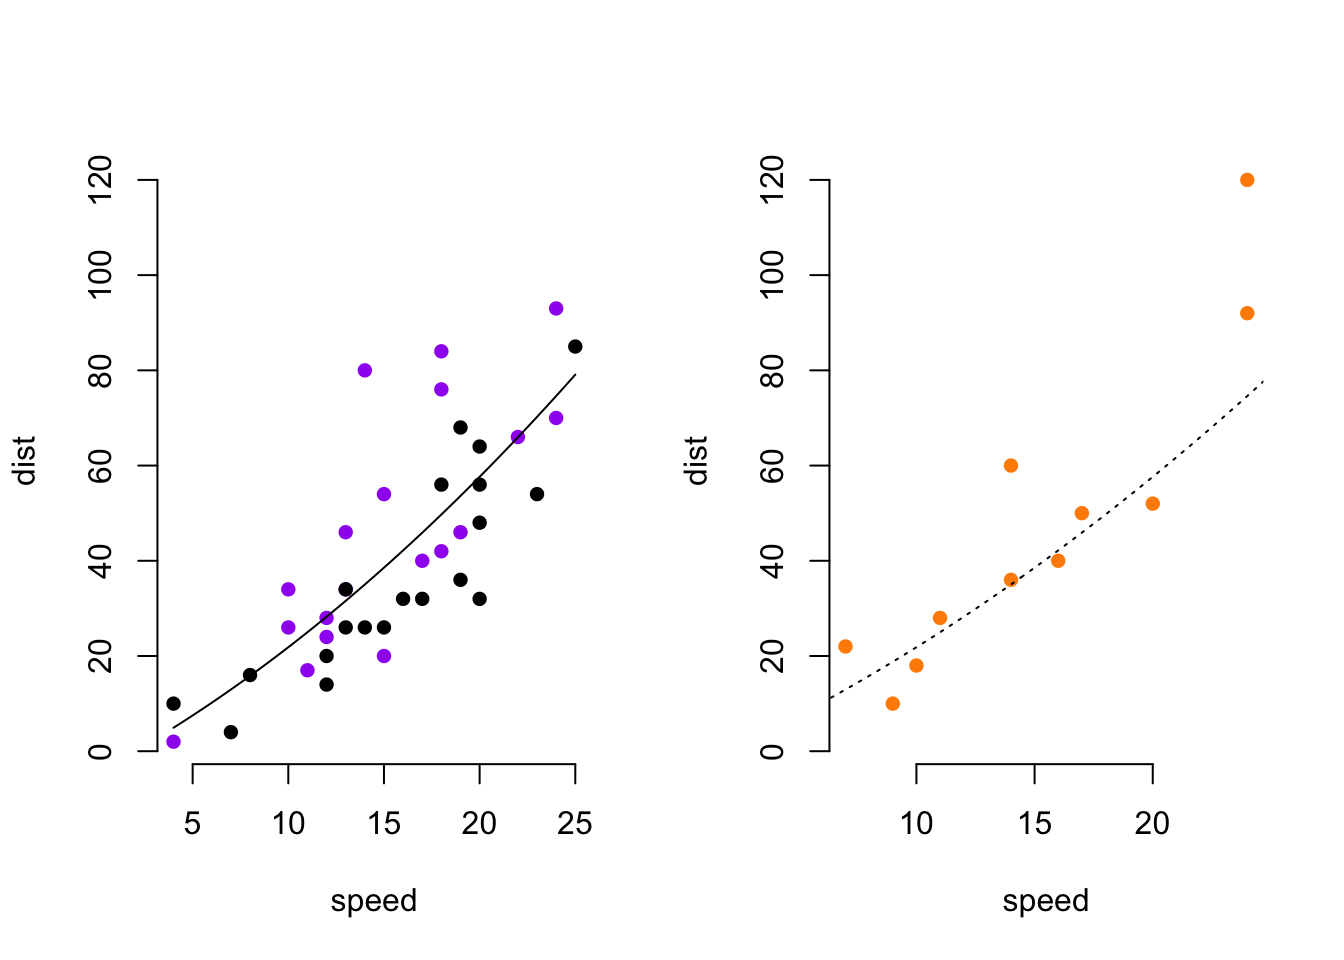
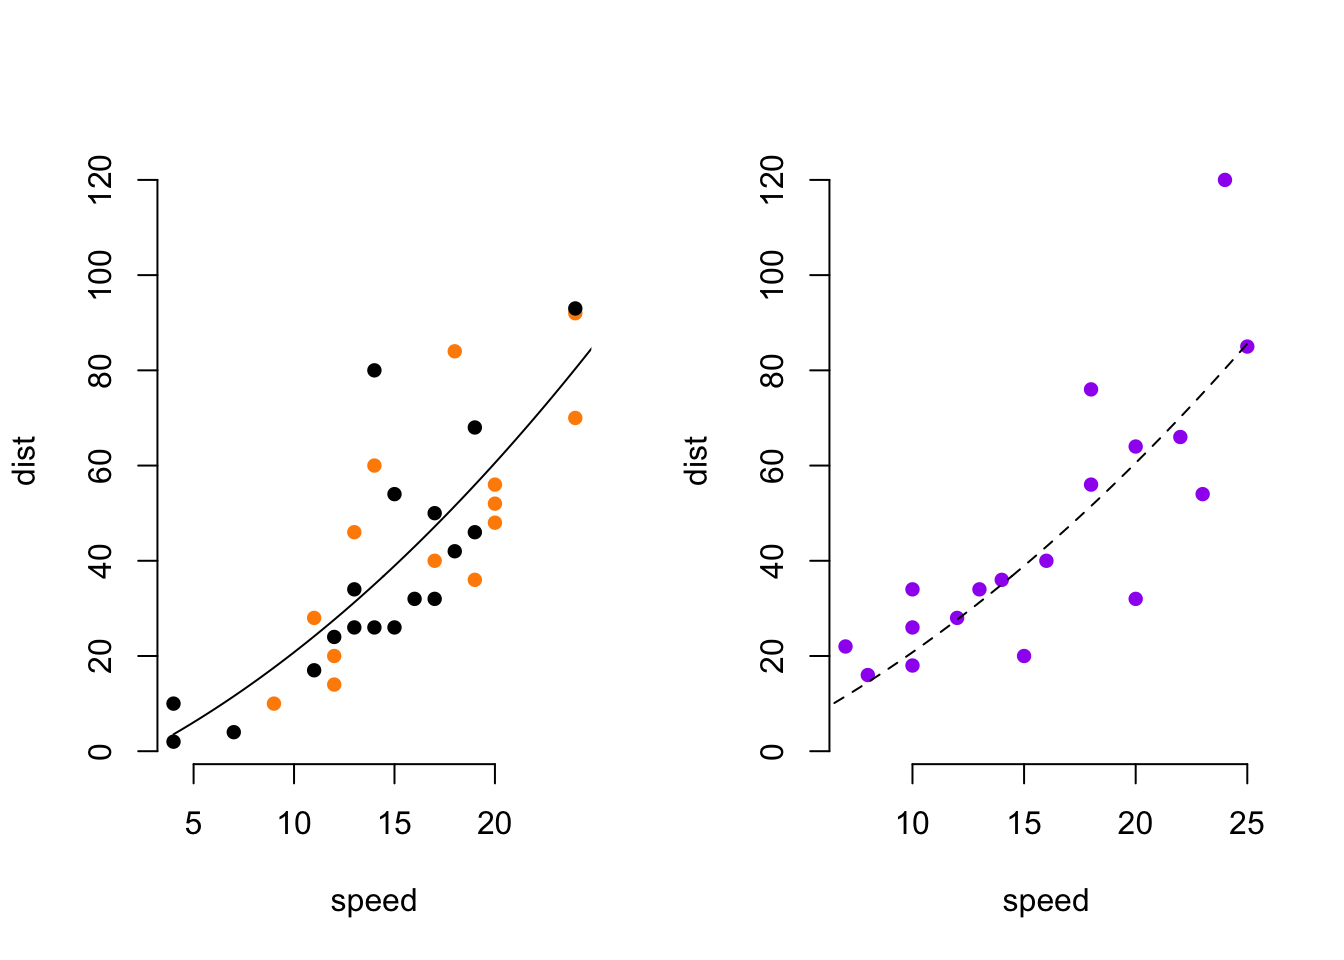
reorganized CV example

diff --git a/docs/data-splitting-systems.html b/docs/data-splitting-systems.html
@@ -212,11 +212,13 @@ code span.wa { color: #60a0b0; font-weight: bold; font-style: italic; } /* Warni
 </div>
 <div id="cross-validation" class="section level2" number="3.2">
 <h2><span class="header-section-number">3.2</span> Cross-validation</h2>
-<p>Cross validation is a kind of repeated training/validation split, which is iterated until all of the data has been used for testing. Each training/validation split may be random or may take data that are grouped according to some meaningful value (often that means resolving one year’s data at a time as validation data).</p>
+<p>Cross validation is a kind of repeated training/validation split, which is iterated until all of the data has been used for testing. Each training/validation split may be random or may take data that are grouped according to some meaningful value. For instance, time-series data may be best analyzed by holding out contiguous blocks of observations.</p>
+<p>Here, I’ll demonstrate doing thre-fold cross-validation on the car stopping distance data. I’ll split the data into three folds and use those divisions to estimate three models. Each model uses two folds as training data and one as validation data.</p>
 <p><img src="03_data-splitting-systems_files/figure-html/three-fold-cv-1.png" width="672" /><img src="03_data-splitting-systems_files/figure-html/three-fold-cv-2.png" width="672" /><img src="03_data-splitting-systems_files/figure-html/three-fold-cv-3.png" width="672" /><img src="03_data-splitting-systems_files/figure-html/three-fold-cv-4.png" width="672" /></p>
+<p>Some things to note are that the estimated line of best fits are different for each iteration of the CV, and that the predictions (in the right hand panels) are generally less accurate than the fitted values (in the left hand panels).</p>
 <div id="combining-the-two" class="section level3" number="3.2.1">
 <h3><span class="header-section-number">3.2.1</span> Combining the two</h3>
-<p>There are times when cross-validation and training/testing validation should be used together. For instance, when cross-validation is used to select model parameters for the best predictive performance, there should also be a validation set that was never used in the cross-validation. That’s so that there are independent data to validate the selection that was based on the CV.</p>
+<p>There are times when cross-validation and training/testing validation should be used together. For instance, when cross-validation is used for exploratory analysis and model selection, then validation should be done using new data that was never previously part of the estimation.</p>
 
 </div>
 </div>
